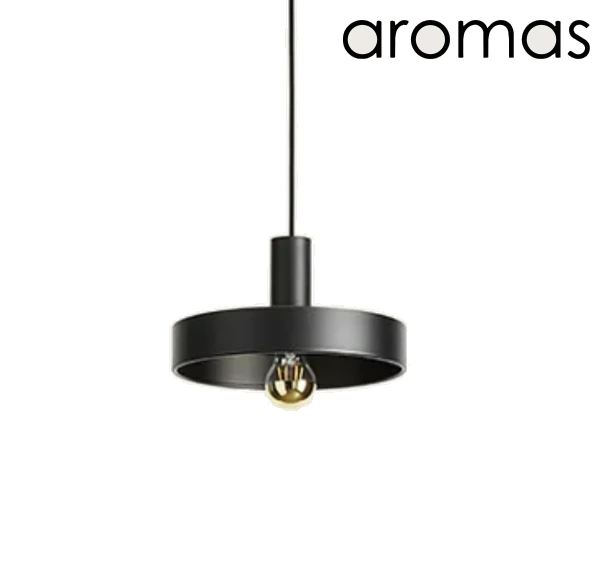
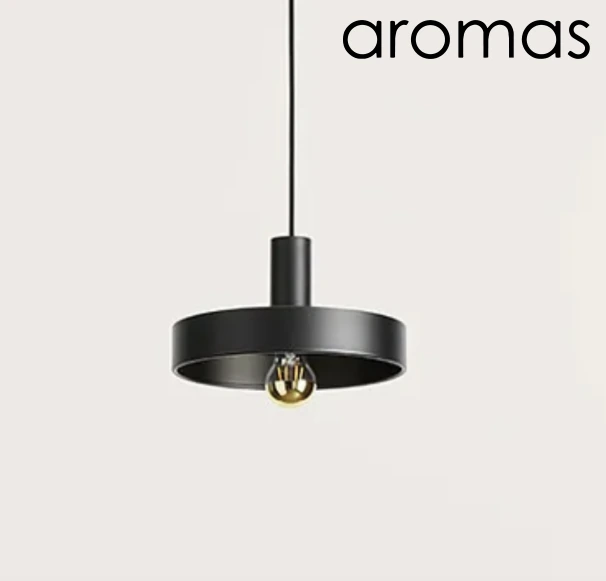
Put the product photos in as they are
The backdrop flattener ran on every upload. It comes off that path: the
photos go in exactly as the design has them, and all 121 are restored to
the raw crop. Whitening a grey studio sweep is still there as
tools/flatten.php, run deliberately over a folder when it is wanted.

Claude-Session: https://claude.ai/code/session_01J1m7x2ptFPyzRegrEZd29n

diff --git a/inc/catalog.php b/inc/catalog.php
@@ -1,8 +1,6 @@
 <?php
 declare(strict_types=1);
 
-require_once __DIR__ . '/image.php';
-
 const IMAGE_TYPES = [
     IMAGETYPE_JPEG => 'jpg', IMAGETYPE_PNG => 'png', IMAGETYPE_GIF => 'gif',
     IMAGETYPE_WEBP => 'webp', IMAGETYPE_AVIF => 'avif',
@@ -68,9 +66,9 @@ function ingest_image(array $file): array
         throw new RuntimeException('שמירת הקובץ נכשלה');
     }
     @chmod(UPLOAD_DIR . '/' . $dest, 0664);
-    // Supplier photos are often shot on a light grey sweep, which shows as a
-    // grey box inside the white card. This puts them all on the same white.
-    flatten_backdrop(UPLOAD_DIR . '/' . $dest);
+    // Photos go up as they are. Whitening the grey studio sweep behind some of
+    // them is available as `php tools/flatten.php`, run deliberately over a
+    // folder, rather than as something that happens to every upload.
     return [$name, $dest];
 }
 

diff --git a/README.md b/README.md
@@ -79,11 +79,11 @@ PHP 8.1+ בלבד — **בלי Composer, בלי בסיס נתונים, בלי No
   רקע לבן נקי. אין צורך לסמן דבר לכל מוצר — זה עובד לכל תמונה שתעלו, בכל יחס.
 
 ### רקע התמונות
-חלק מתמונות היצרן מצולמות על רקע אפור בהיר ולא על לבן, וזה נראה כמו קופסה אפורה
-בתוך הכרטיס הלבן. כל תמונה שעולה עוברת ב-`inc/image.php`: אם יותר מ-15% מהפריים
-הוא ערך אפרפר אחיד, הוא נצבע ללבן במילוי שזוחל פנימה מהשוליים — המוצר עוצר אותו,
-והצל שלו נשאר. תמונה שכבר על לבן, או שצולמה על רקע אמיתי, לא נוגעים בה.
-לתמונות שכבר בתיקייה: `php tools/flatten.php` (אידמפוטנטי).
+**תמונות נכנסות כמו שהן.** חלק מתמונות היצרן מצולמות על רקע אפור בהיר ולא על לבן,
+וזה נראה כמו קופסה אפורה בתוך הכרטיס — אם תרצו להלבין את הרקע הזה יש
+`php tools/flatten.php` שרץ על תיקייה ומזהה רקע אחיד לבד (המוצר עוצר את המילוי,
+והצל שלו נשאר). זה **לא** רץ בהעלאה, בכוונה: תמונה שצולמה מול קיר מואר ולא מול
+רקע אחיד עלולה לצאת מכורסמת, ותמונה פגומה גרועה מרקע אפור.
 
 ### צפיות במוצרים
 עמודת **צפיות** בטבלת הקטלוג סופרת כמה פעמים נפתח הפופ-אפ של כל מוצר. לחיצה על
